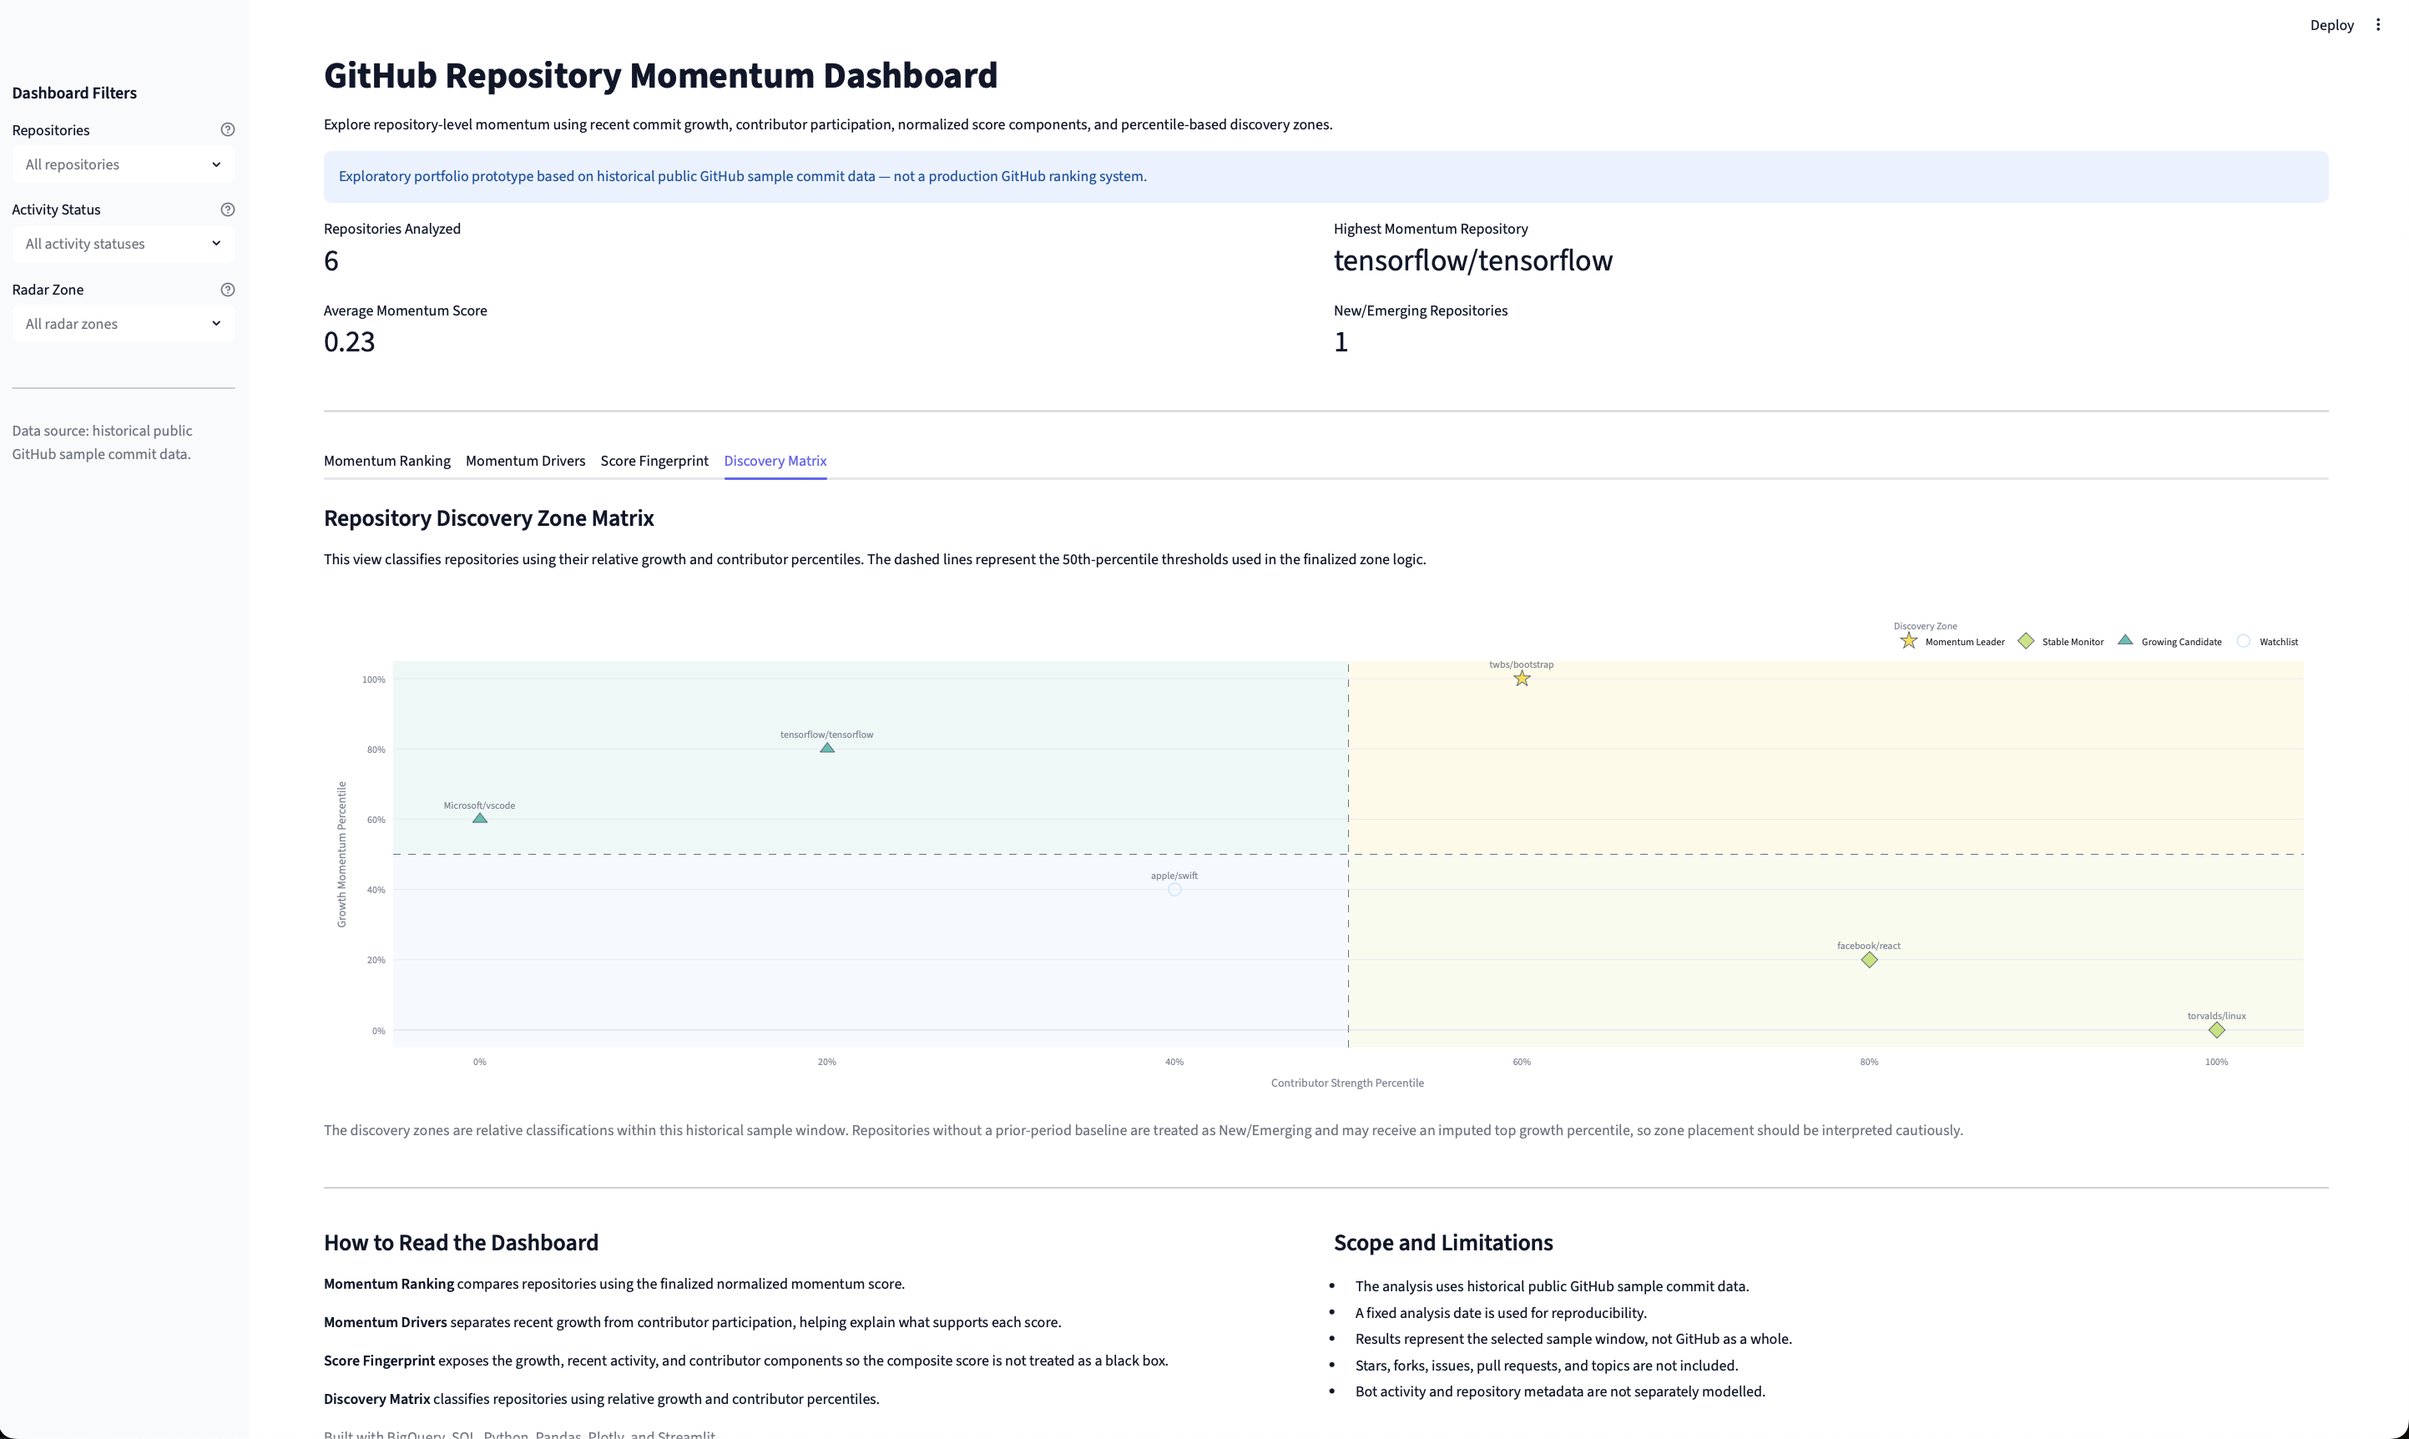
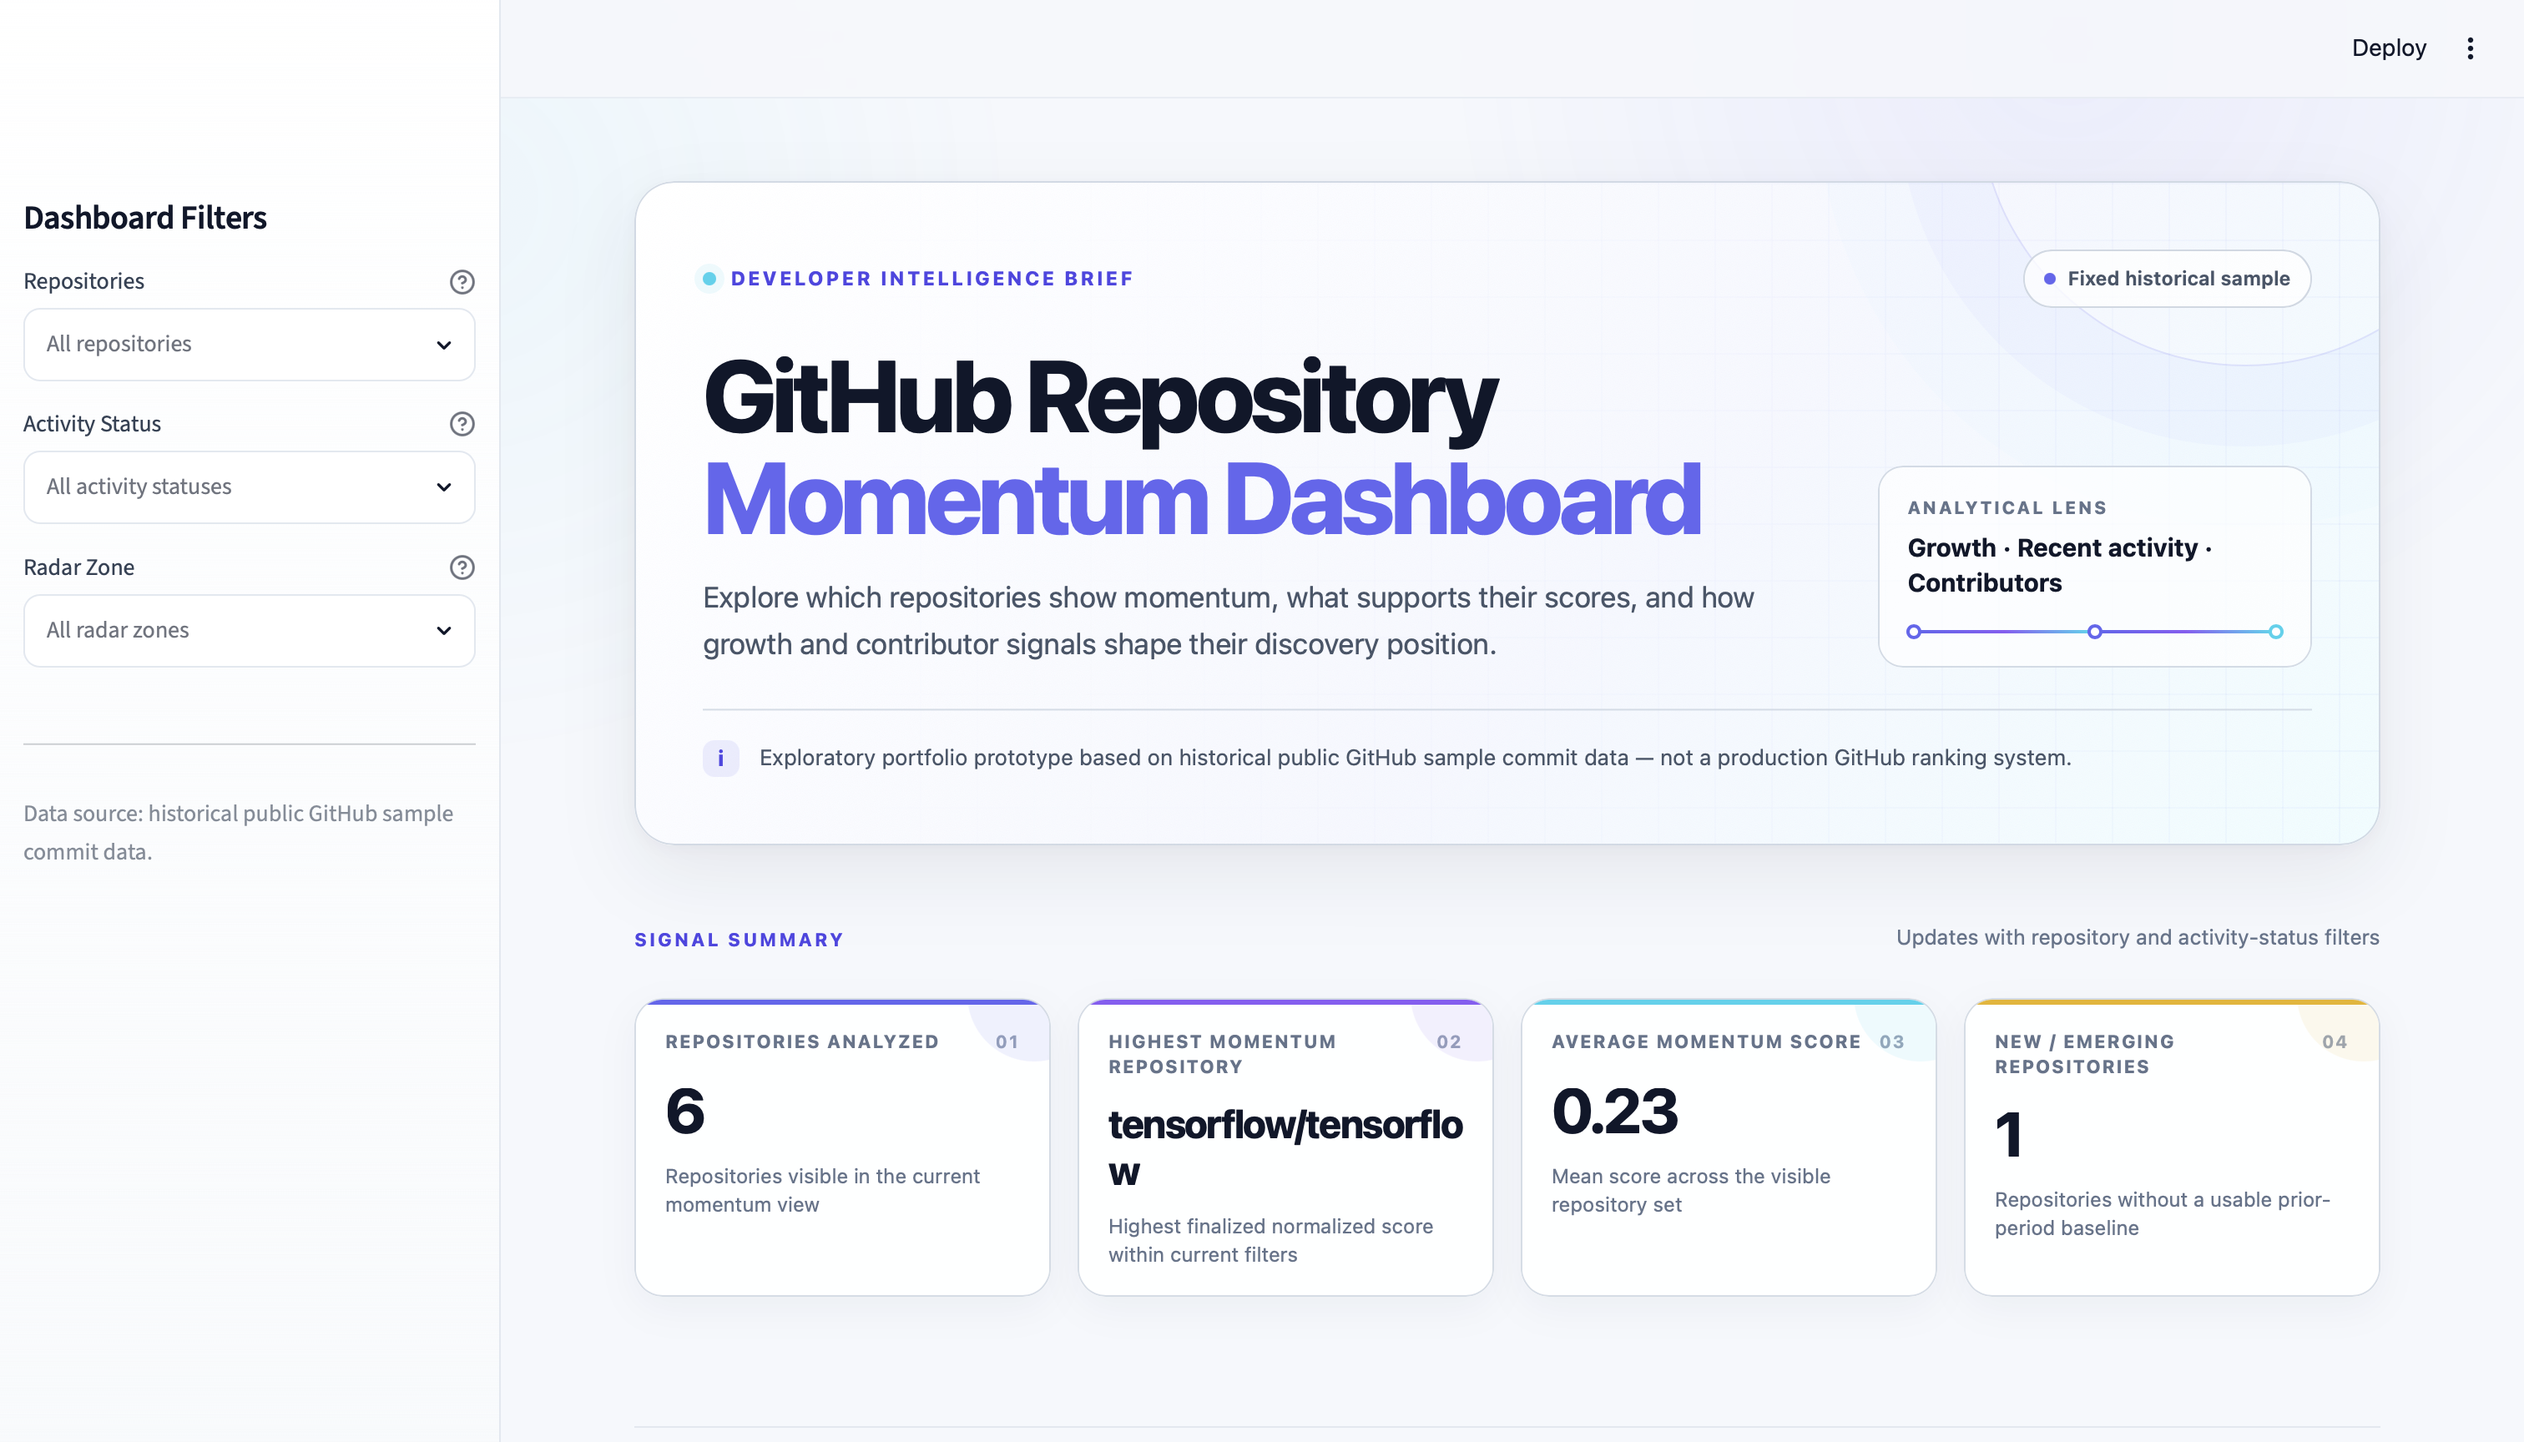
Finalize documentation and public repository assets

diff --git a/README.md b/README.md
@@ -42,7 +42,7 @@ The project builds a repository-level momentum prototype that:
 
 ---
 
-## Dashboard Preview
+## Notebook Analysis Preview
 
 ### 1. Repository Momentum Ranking
 
@@ -77,6 +77,9 @@ This matrix classifies repositories into discovery zones based on growth momentu
 ---
 
 ## Analytical Framework
+
+- **Data source:** `bigquery-public-data.github_repos.sample_commits`
+- **Fixed analysis date:** `2016-06-22`
 
 The project follows a staged SQL-based analytical workflow.
 
@@ -116,6 +119,16 @@ Repositories are classified using percentile-based thresholds:
 - high growth + lower contributor strength → Growing Candidate,
 - lower growth + high contributor strength → Stable Monitor,
 - lower growth + lower contributor strength → Watchlist.
+
+This classification is separate from the finalized normalized momentum score.
+Charts 1–3 rank and explain repositories using weighted growth, recent
+activity, and contributor components, while Chart 4 creates a percentile-based
+segmentation using growth momentum and contributor strength.
+
+For repositories without a usable prior-period baseline, the discovery query
+applies an adjusted growth value before percentile ranking. This is why
+`twbs/bootstrap` requires cautious interpretation despite appearing in the
+Momentum Leader zone.
 
 This creates an exploratory discovery layer that is easier to interpret than a single ranking alone.
 
@@ -175,6 +188,21 @@ Together, these views move from ranking to explanation to classification.
 - Normalization makes repositories easier to compare across different activity levels.
 - Discovery zones provide an interpretable portfolio-style view of repository activity.
 
+
+### Selected Findings
+
+- `tensorflow/tensorflow` records the highest finalized normalized momentum
+  score in the sample at `0.76`, supported primarily by its strong growth
+  component.
+- `Microsoft/vscode` ranks second at `0.53`, combining positive growth with
+  substantial recent activity.
+- `torvalds/linux` has the broadest contributor base in the comparison set,
+  but sharply negative short-term growth lowers its final momentum score.
+- `twbs/bootstrap` is classified as New/Emerging because it lacks a usable
+  prior-period baseline. Its Momentum Leader discovery-zone placement partly
+  reflects an imputed top growth percentile and should therefore be interpreted
+  cautiously.
+
 ---
 
 ## Scope and Limitations
@@ -213,14 +241,10 @@ Potential extensions include:
 
 ## Current Status
 
-The repository momentum analysis, notebook-based dashboard prototype, and interactive Streamlit dashboard v1 are complete.
+The repository momentum analysis, SQL workflow, notebook prototype, and
+redesigned interactive Streamlit dashboard are complete.
 
-The Streamlit application loads the finalized processed CSV outputs locally and provides:
-
-- filter-responsive KPI summaries
-- repository, activity-status, and radar-zone filters
-- four interactive Plotly visualizations
-- dashboard interpretation and documented limitations
+The dashboard has been validated locally and is ready for public deployment.
 
 Run the dashboard locally with:
 

diff --git a/INSIGHTS.md b/INSIGHTS.md
@@ -32,11 +32,58 @@ Normalization helps compare repositories across different activity levels by con
 
 ---
 
-## 5. Discovery Views Are Useful for Exploration
+## 5. Discovery Zones Add a Different Analytical Lens
 
-The repository discovery zone matrix is not a final ranking system.
+The repository discovery zone matrix is not another version of the finalized momentum ranking.
 
-It is a visual exploration layer that helps separate momentum leaders, growing candidates, stable monitors, and watchlist repositories.
+Charts 1–3 use the normalized momentum score and its weighted growth, recent activity, and contributor components. Chart 4 instead uses growth-momentum percentile and contributor-strength percentile to place repositories into four relative discovery zones.
+
+This distinction allows the matrix to separate different repository profiles: Momentum Leaders, Growing Candidates, Stable Monitors, and Watchlist repositories.
+
+The classifications are relative to this small historical comparison set and should not be interpreted as absolute judgments about repository quality, importance, or long-term potential.
+
+---
+
+## 6. Selected Repository Findings
+
+### TensorFlow Shows the Strongest Finalized Momentum Result
+
+`tensorflow/tensorflow` records the highest finalized normalized momentum
+score in the sample at `0.76`.
+
+Its position is supported primarily by strong positive growth, alongside
+meaningful recent activity and contributor participation. This makes
+TensorFlow the strongest headline momentum result in the finalized ranking.
+
+### Visual Studio Code Ranks Second
+
+`Microsoft/vscode` records the second-highest normalized momentum score at
+`0.53`.
+
+Its result combines positive recent growth with substantial repository
+activity, showing that momentum can be supported by both acceleration and
+continued participation rather than by growth alone.
+
+### Linux Demonstrates That Scale Is Not the Same as Momentum
+
+`torvalds/linux` has the broadest contributor base among the repositories in
+the comparison set.
+
+However, its sharply negative short-term growth lowers its finalized momentum
+score. This illustrates an important analytical distinction: a large and
+established repository can demonstrate substantial ecosystem strength without
+showing strong momentum during the selected analysis window.
+
+### Bootstrap Requires Cautious Interpretation
+
+`twbs/bootstrap` is classified as New/Emerging because it does not have a
+usable previous-period baseline.
+
+Under the finalized discovery-zone logic, repositories without a prior-period
+baseline may receive an imputed top growth percentile. Bootstrap therefore
+appears in the Momentum Leader quadrant, but this placement should not be
+interpreted as unqualified evidence that it has the strongest observed
+momentum.
 
 ---
 
